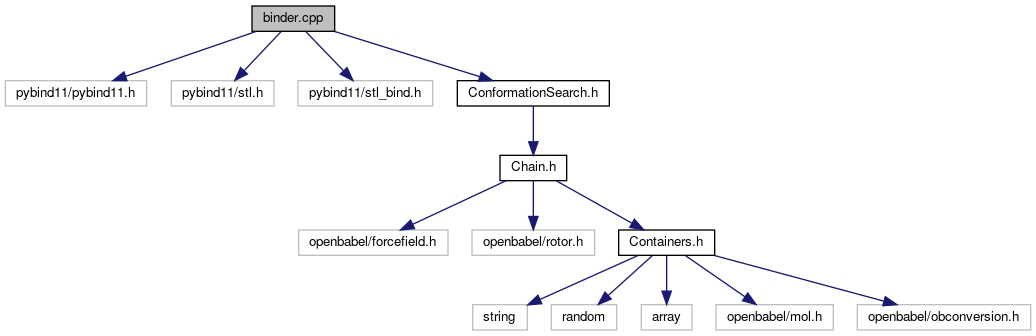
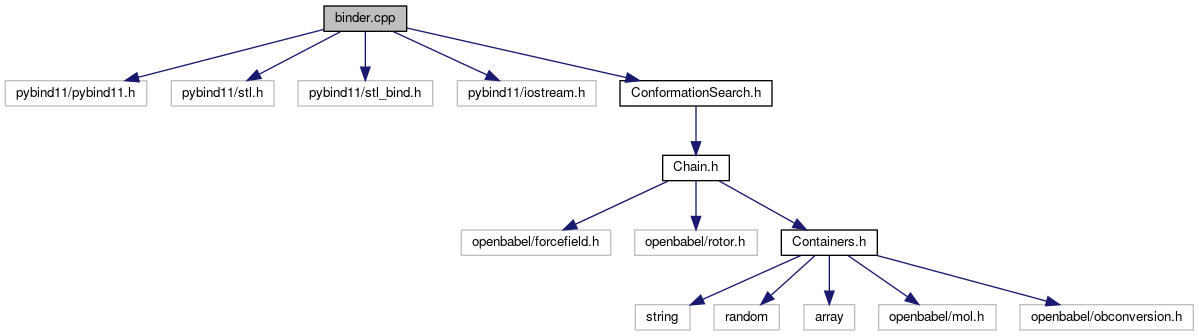
fix error in RMSD; print standard output to jupyter notebook

diff --git a/docs/html/binder_8cpp.html b/docs/html/binder_8cpp.html
@@ -95,13 +95,14 @@ var searchBox = new SearchBox("searchBox", "search",false,'Search');
 <div class="textblock"><code>#include &lt;pybind11/pybind11.h&gt;</code><br/>
 <code>#include &lt;pybind11/stl.h&gt;</code><br/>
 <code>#include &lt;pybind11/stl_bind.h&gt;</code><br/>
+<code>#include &lt;pybind11/iostream.h&gt;</code><br/>
 <code>#include &quot;<a class="el" href="ConformationSearch_8h_source.html">ConformationSearch.h</a>&quot;</code><br/>
 </div><div class="textblock"><div class="dynheader">
 Include dependency graph for binder.cpp:</div>
 <div class="dyncontent">
 <div class="center"><img src="binder_8cpp__incl.png" border="0" usemap="#binder_8cpp" alt=""/></div>
 <map name="binder_8cpp" id="binder_8cpp">
-<area shape="rect" id="node5" href="ConformationSearch_8h.html" title="ConformationSearch.h" alt="" coords="457,80,609,107"/><area shape="rect" id="node6" href="Chain_8h.html" title="Chain.h" alt="" coords="500,155,567,181"/><area shape="rect" id="node9" href="Containers_8h.html" title="Containers.h" alt="" coords="619,229,715,256"/></map>
+<area shape="rect" id="node6" href="ConformationSearch_8h.html" title="ConformationSearch.h" alt="" coords="620,80,772,107"/><area shape="rect" id="node7" href="Chain_8h.html" title="Chain.h" alt="" coords="663,155,729,181"/><area shape="rect" id="node10" href="Containers_8h.html" title="Containers.h" alt="" coords="781,229,877,256"/></map>
 </div>
 </div><table class="memberdecls">
 <tr class="heading"><td colspan="2"><h2 class="groupheader"><a name="namespaces"></a>

diff --git a/docs/html/ConformationSearch_8h_source.html b/docs/html/ConformationSearch_8h_source.html
@@ -151,7 +151,7 @@ var searchBox = new SearchBox("searchBox", "search",false,'Search');
 <div class="line"><a name="l00294"></a><span class="lineno">  294</span>&#160;            <span class="keywordflow">for</span> (<span class="keywordtype">int</span> i = 0; i &lt; size; i++) {</div>
 <div class="line"><a name="l00295"></a><span class="lineno">  295</span>&#160;                rmsd += pow(*(ref + i) - *(conf + i),2);</div>
 <div class="line"><a name="l00296"></a><span class="lineno">  296</span>&#160;            }</div>
-<div class="line"><a name="l00297"></a><span class="lineno">  297</span>&#160;            <span class="keywordflow">return</span> sqrt(rmsd/size);</div>
+<div class="line"><a name="l00297"></a><span class="lineno">  297</span>&#160;            <span class="keywordflow">return</span> sqrt(rmsd/(size/3));</div>
 <div class="line"><a name="l00298"></a><span class="lineno">  298</span>&#160;        }</div>
 <div class="line"><a name="l00299"></a><span class="lineno">  299</span>&#160;</div>
 <div class="line"><a name="l00309"></a><span class="lineno">  309</span>&#160;        <span class="keywordtype">void</span> <a class="code" href="classPNAB_1_1ConformationSearch.html#a02eb6b556cdebf2b0e66842751c27be4">printProgress</a>(std::size_t search_index, std::size_t search_size);</div>

diff --git a/docs/html/classpNAB_1_1pNAB.html b/docs/html/classpNAB_1_1pNAB.html
@@ -103,15 +103,11 @@ var searchBox = new SearchBox("searchBox", "search",false,'Search');
 Inheritance diagram for pNAB.pNAB:</div>
 <div class="dyncontent">
 <div class="center"><img src="classpNAB_1_1pNAB__inherit__graph.png" border="0" usemap="#pNAB_8pNAB_inherit__map" alt="Inheritance graph"/></div>
-<map name="pNAB_8pNAB_inherit__map" id="pNAB_8pNAB_inherit__map">
-</map>
 <center><span class="legend">[<a href="graph_legend.html">legend</a>]</span></center></div>
 <div class="dynheader">
 Collaboration diagram for pNAB.pNAB:</div>
 <div class="dyncontent">
 <div class="center"><img src="classpNAB_1_1pNAB__coll__graph.png" border="0" usemap="#pNAB_8pNAB_coll__map" alt="Collaboration graph"/></div>
-<map name="pNAB_8pNAB_coll__map" id="pNAB_8pNAB_coll__map">
-</map>
 <center><span class="legend">[<a href="graph_legend.html">legend</a>]</span></center></div>
 <table class="memberdecls">
 <tr class="heading"><td colspan="2"><h2 class="groupheader"><a name="pub-methods"></a>

diff --git a/docs/html/Containers_8h.html b/docs/html/Containers_8h.html
@@ -101,8 +101,6 @@ var searchBox = new SearchBox("searchBox", "search",false,'Search');
 Include dependency graph for Containers.h:</div>
 <div class="dyncontent">
 <div class="center"><img src="Containers_8h__incl.png" border="0" usemap="#Containers_8h" alt=""/></div>
-<map name="Containers_8h" id="Containers_8h">
-</map>
 </div>
 </div><div class="textblock"><div class="dynheader">
 This graph shows which files directly or indirectly include this file:</div>

diff --git a/pnab/src/ConformationSearch.cpp b/pnab/src/ConformationSearch.cpp
@@ -661,7 +661,7 @@ void ConformationSearch::SystematicSearch() {
 void ConformationSearch::printProgress(std::size_t search_index, std::size_t search_size) {
     // Print progress
     auto prgrs = conf_data_vec_.size(); // Number of accepted candidates
-    cout << setw(8);
+    cout << prefix_ << ": ";
     cout << 100 * static_cast<double>(search_index) / search_size;
     cout << "%\tAccepted: " << setw(8) << prgrs;
     // Print the name of the accepted candidate and its energy and distance
@@ -736,7 +736,7 @@ void ConformationSearch::reportData(PNAB::ConformerData conf_data) {
     std::string header = "# Prefix, Conformer Index, Distance (Angstroms), Bond Energy (kcal/mol/(nucleotide-1)), Angle Energy (kcal/mol/(nucleotide-1)), "
                          "Torsion Energy (kcal/mol/nucleotide), Van der Waals Energy (kcal/mol/nucleotide), "
                          "Total Energy (kcal/mol/nucleotide), Fixed Torsions Energy (kcal/mol/nucleotide), "
-                         "RMSD relative to lowest energy conformer (Angstrom)";
+                         "Nucleotide RMSD relative to lowest energy conformer (Angstrom)";
     output_stringstream << header << endl;
 
     // Sort candidates by lowest energy

diff --git a/pnab/driver/pNAB.py b/pnab/driver/pNAB.py
@@ -101,7 +101,7 @@ class pNAB(object):
         self.header = ('Prefix, Conformer Index, Distance (Angstroms), Bond Energy (kcal/mol/(nucleotide-1)), Angle Energy (kcal/mol/(nucleotide-1)), ' +
                        'Torsion Energy (kcal/mol/nucleotide), Van der Waals Energy (kcal/mol/nucleotide), ' + 
                        'Total Energy (kcal/mol/nucleotide), Fixed Torsions Energy (kcal/mol/nucleotide), ' + 
-                       'RMSD relative to lowest energy conformer (Angstrom)')
+                       'Nucleotide RMSD relative to lowest energy conformer (Angstrom)')
 
 
     def _run(self, config):

diff --git a/pnab/driver/jupyter_widgets.py b/pnab/driver/jupyter_widgets.py
@@ -640,9 +640,17 @@ def run(button):
         f.write('# ' + time + '\n')
         f.write(yaml.dump(run_options))
 
-    # Run the code
-    run = pNAB('options.yaml')
-    run.run()
+    # Capture progress report
+    out = widgets.Output()
+    display(out)
+
+    with out:
+        # Run the code
+        run = pNAB('options.yaml')
+        run.run()
+
+    # Delete progree report
+    out.clear_output()    
 
     # If no results are found, print and return
     if run.results.size == 0:

diff --git a/pnab/src/binder.cpp b/pnab/src/binder.cpp
@@ -1,6 +1,7 @@
 #include <pybind11/pybind11.h>
 #include <pybind11/stl.h>
 #include <pybind11/stl_bind.h>
+#include <pybind11/iostream.h>
 
 #include "ConformationSearch.h"
 
@@ -91,6 +92,6 @@ namespace PNAB {
             .def_readwrite("linker", &PNAB::Base::linker)
             ;        
 
-        m.def("run", &PNAB::run, "run");
+        m.def("run", &PNAB::run, "run", py::call_guard<py::scoped_ostream_redirect, py::scoped_estream_redirect>());
     }
 }

diff --git a/pnab/src/ConformationSearch.h b/pnab/src/ConformationSearch.h
@@ -294,7 +294,7 @@ namespace PNAB {
             for (int i = 0; i < size; i++) {
                 rmsd += pow(*(ref + i) - *(conf + i),2);
             }
-            return sqrt(rmsd/size);
+            return sqrt(rmsd/(size/3));
         }
 
         /**
